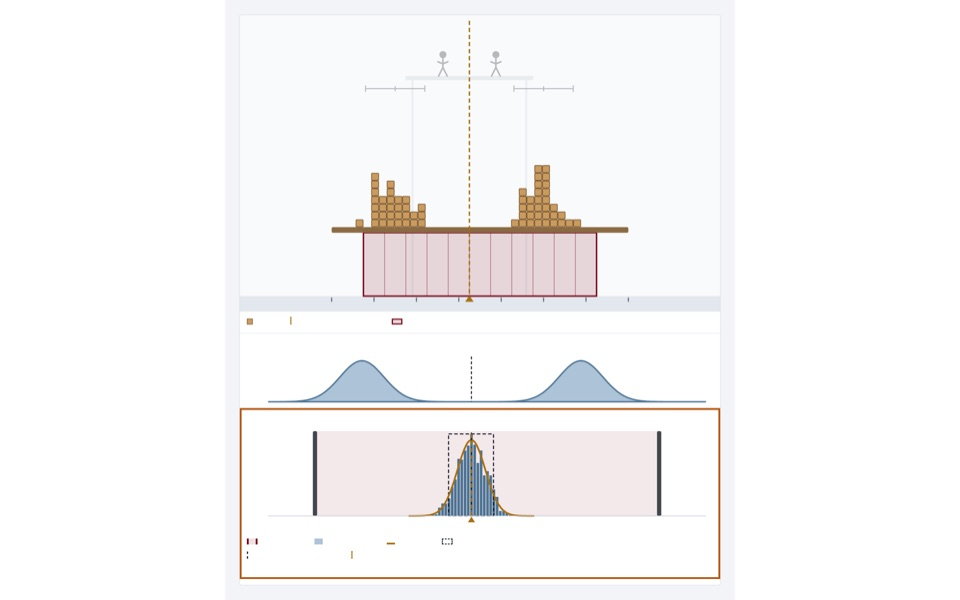
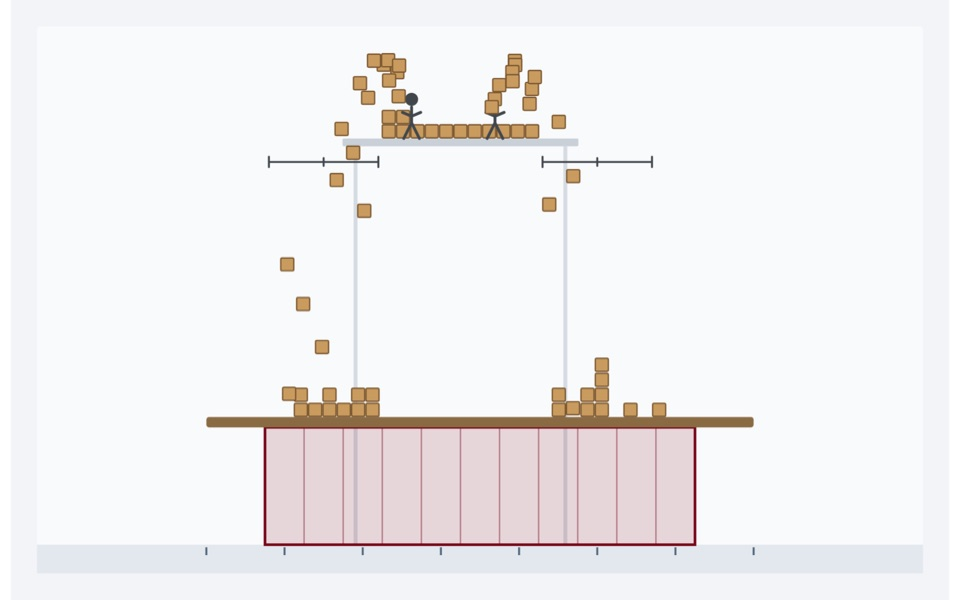
update thumbnails

diff --git a/site/index.html b/site/index.html
@@ -106,7 +106,7 @@ main{max-width:1240px;margin:0 auto;padding:28px 24px 56px}
         </span>
       </a></li>
       <li><a class="game" href="lookout-tower.html" style="--course:#047854" aria-labelledby="t-lookout-tower" aria-describedby="h-lookout-tower">
-        <span class="shot"><img src="thumbs/lookout-tower.jpg?v=99f8711b84" alt="A pixel marsh with three birds, each outlined, beside a tapering stack of floors over the photo with a pyramid of squares running from one top-floor lookout down to a bird." loading="lazy" width="960" height="600"><span class="num" aria-hidden="true">08</span></span>
+        <span class="shot"><img src="thumbs/lookout-tower.jpg?v=f69366f719" alt="A pixel marsh with three birds, each outlined, beside a tapering stack of floors over the photo with a pyramid of squares running from one top-floor lookout down to a bird." loading="lazy" width="960" height="600"><span class="num" aria-hidden="true">08</span></span>
         <span class="body">
           <span class="course"><i aria-hidden="true"></i>Deep Learning · Convolution and the receptive field</span>
           <h2 id="t-lookout-tower">Lookout Tower</h2>
@@ -115,7 +115,7 @@ main{max-width:1240px;margin:0 auto;padding:28px 24px 56px}
         </span>
       </a></li>
       <li><a class="game" href="mean-flights.html" style="--course:#4B7293" aria-labelledby="t-mean-flights" aria-describedby="h-mean-flights">
-        <span class="shot"><img src="thumbs/mean-flights.jpg?v=3edf1600ab" alt="Two workers on a platform above a long plank on a support, their crates landed in two heaps, above two charts on the same distance scale: single crates land in two separate humps, while the balance points of many drops pile into one narrow bell between them." loading="lazy" width="960" height="600"><span class="num" aria-hidden="true">09</span></span>
+        <span class="shot"><img src="thumbs/mean-flights.jpg?v=649f6c51a5" alt="Two workers on a platform toss crates to either side, mid-delivery: crates in the air, and two heaps building on a long plank that rests on a support." loading="lazy" width="960" height="600"><span class="num" aria-hidden="true">09</span></span>
         <span class="body">
           <span class="course"><i aria-hidden="true"></i>Probability+SDA · Central limit theorem</span>
           <h2 id="t-mean-flights">Tipping Point</h2>
@@ -124,7 +124,7 @@ main{max-width:1240px;margin:0 auto;padding:28px 24px 56px}
         </span>
       </a></li>
       <li><a class="game" href="photo-finish.html" style="--course:#173EAD" aria-labelledby="t-photo-finish" aria-describedby="h-photo-finish">
-        <span class="shot"><img src="thumbs/photo-finish.jpg?v=373180f2d3" alt="A contact sheet of concert photos ranked by score, with two gates, and an album below with five of six moments filled." loading="lazy" width="960" height="600"><span class="num" aria-hidden="true">10</span></span>
+        <span class="shot"><img src="thumbs/photo-finish.jpg?v=9874bb1dba" alt="A contact sheet of concert photos ranked by score, with two gates, and an album below with all six moments filled." loading="lazy" width="960" height="600"><span class="num" aria-hidden="true">10</span></span>
         <span class="body">
           <span class="course"><i aria-hidden="true"></i>Deep Learning · Class imbalance</span>
           <h2 id="t-photo-finish">Photo Finish</h2>
@@ -142,7 +142,7 @@ main{max-width:1240px;margin:0 auto;padding:28px 24px 56px}
         </span>
       </a></li>
       <li><a class="game" href="the-wonder-fold.html" style="--course:#4B7293" aria-labelledby="t-the-wonder-fold" aria-describedby="h-the-wonder-fold">
-        <span class="shot"><img src="thumbs/the-wonder-fold.jpg?v=632d715e8e" alt="Paper-plane landings in two indoor lanes, with each lane&#x27;s average marked." loading="lazy" width="960" height="600"><span class="num" aria-hidden="true">12</span></span>
+        <span class="shot"><img src="thumbs/the-wonder-fold.jpg?v=47dd96f0cf" alt="Paper planes in flight over two indoor lanes, on their way to land." loading="lazy" width="960" height="600"><span class="num" aria-hidden="true">12</span></span>
         <span class="body">
           <span class="course"><i aria-hidden="true"></i>Probability+SDA · Power of a test</span>
           <h2 id="t-the-wonder-fold">Wonder Fold</h2>

diff --git a/tools/live.py b/tools/live.py
@@ -1,0 +1,132 @@
+"""Live thumbnails: drive headless Chrome over the DevTools protocol, so a thumbnail can catch a game mid-animation.
+
+thumbs.py uses this for games with "thumb_live" in games.json. The game is first played into position with reduced
+motion on ("thumb_steps", instant), then motion is switched on, "thumb_live": {"steps": [...], "after": ms} is played
+in real time, and the play area is captured `after` ms later: planes in flight, crates in the air.
+Standard library only: a minimal WebSocket client for the one local DevTools connection.
+"""
+import base64
+import json
+import os
+import socket
+import struct
+import subprocess
+import tempfile
+import time
+import urllib.request
+
+
+class DevTools:
+    def __init__(self, chrome, width, height, scale):
+        self.port = 9300 + os.getpid() % 500
+        self.profile = tempfile.TemporaryDirectory()
+        self.proc = subprocess.Popen([chrome, '--headless=new', '--disable-gpu', '--hide-scrollbars',
+                                      f'--remote-debugging-port={self.port}', f'--user-data-dir={self.profile.name}',
+                                      f'--window-size={width},{height}', f'--force-device-scale-factor={scale}', 'about:blank'],
+                                     stdout=subprocess.DEVNULL, stderr=subprocess.DEVNULL)
+        for _ in range(80):
+            try:
+                pages = json.load(urllib.request.urlopen(f'http://127.0.0.1:{self.port}/json', timeout=1))
+                url = next(p['webSocketDebuggerUrl'] for p in pages if p['type'] == 'page')
+                break
+            except Exception:
+                time.sleep(.25)
+        else:
+            raise RuntimeError('Chrome DevTools did not start')
+        host, path = url[len('ws://'):].split('/', 1)
+        hostname, port = host.split(':')
+        self.sock = socket.create_connection((hostname, int(port)))
+        key = base64.b64encode(os.urandom(16)).decode()
+        self.sock.sendall((f'GET /{path} HTTP/1.1\r\nHost: {host}\r\nUpgrade: websocket\r\nConnection: Upgrade\r\n'
+                           f'Sec-WebSocket-Key: {key}\r\nSec-WebSocket-Version: 13\r\n\r\n').encode())
+        reply = b''
+        while b'\r\n\r\n' not in reply:
+            reply += self.sock.recv(4096)
+        assert b' 101 ' in reply.split(b'\r\n')[0], reply[:80]
+        self.buffer = reply.split(b'\r\n\r\n', 1)[1]
+        self.next_id = 0
+
+    def _read(self, n):
+        while len(self.buffer) < n:
+            chunk = self.sock.recv(1 << 16)
+            if not chunk:
+                raise ConnectionError('DevTools closed')
+            self.buffer += chunk
+        data, self.buffer = self.buffer[:n], self.buffer[n:]
+        return data
+
+    def _frame(self):
+        message = b''
+        while True:
+            b0, b1 = self._read(2)
+            length = b1 & 0x7F
+            if length == 126:
+                length = struct.unpack('>H', self._read(2))[0]
+            elif length == 127:
+                length = struct.unpack('>Q', self._read(8))[0]
+            message += self._read(length)
+            if b0 & 0x80:
+                return message.decode()
+
+    def send(self, method, **params):
+        self.next_id += 1
+        payload = json.dumps({'id': self.next_id, 'method': method, 'params': params}).encode()
+        mask = os.urandom(4)
+        n = len(payload)
+        header = bytes([0x81]) + (bytes([0x80 | n]) if n < 126 else bytes([0x80 | 126]) + struct.pack('>H', n) if n < 65536
+                                  else bytes([0x80 | 127]) + struct.pack('>Q', n))
+        self.sock.sendall(header + mask + bytes(b ^ mask[i % 4] for i, b in enumerate(payload)))
+        while True:
+            reply = json.loads(self._frame())
+            if reply.get('id') == self.next_id:
+                if 'error' in reply:
+                    raise RuntimeError(f'{method}: {reply["error"]}')
+                return reply.get('result', {})
+
+    def evaluate(self, expression):
+        result = self.send('Runtime.evaluate', expression=expression, awaitPromise=True, returnByValue=True)
+        return result.get('result', {}).get('value')
+
+    def reduce_motion(self, on):
+        self.send('Emulation.setEmulatedMedia', features=[{'name': 'prefers-reduced-motion', 'value': 'reduce' if on else 'no-preference'}])
+
+    def close(self):
+        try:
+            self.sock.close()
+        finally:
+            self.proc.kill()
+            self.proc.wait()
+            self.profile.cleanup()
+
+
+# Plays steps one after another, 400 ms apart: a selector to click (SVG elements too), {"set": selector, "value": v}
+# for a slider, or {"key": selector, "press": key, "times": n} for keyboard controls.
+STEPS_JS = '''(async steps=>{const wait=ms=>new Promise(r=>setTimeout(r,ms));
+for(const t of steps){if(typeof t==='string'){const e=document.querySelector(t);if(e&&e.click)e.click();else if(e)e.dispatchEvent(new MouseEvent('click',{bubbles:true}));}
+else if(t.key){const e=document.querySelector(t.key);for(let i=0;i<(t.times||1);i++)e&&e.dispatchEvent(new KeyboardEvent('keydown',{key:t.press,bubbles:true,cancelable:true}));}
+else{const e=document.querySelector(t.set);if(e){e.value=t.value;e.dispatchEvent(new Event('input',{bubbles:true}));e.dispatchEvent(new Event('change',{bubbles:true}));}}
+await wait(%d);}return true;})(%s)'''
+
+
+def capture(chrome, url, play, steps, live, out_png, box, size):
+    """Play the game into position, then live, and save a PNG of the play area (box() turns its rect into a clip)."""
+    width, height, scale = size
+    dev = DevTools(chrome, width, height, scale)
+    try:
+        dev.send('Page.enable')
+        dev.reduce_motion(True)
+        dev.send('Page.navigate', url=url)
+        time.sleep(1.5)
+        dev.evaluate(STEPS_JS % (400, json.dumps(steps)))
+        time.sleep(.8)
+        dev.reduce_motion(False)
+        dev.evaluate(STEPS_JS % (0, json.dumps(live.get('steps', []))))
+        time.sleep(live.get('after', 1000) / 1000)
+        rect = dev.evaluate(f'(()=>{{const r=document.querySelector({json.dumps(play)}).getBoundingClientRect();return [r.left+scrollX,r.top+scrollY,r.width,r.height];}})()')
+        x, y, w, h = box(*rect)
+        shot = dev.send('Page.captureScreenshot', format='png', captureBeyondViewport=True,
+                        clip={'x': x / scale, 'y': y / scale, 'width': w / scale, 'height': h / scale, 'scale': 1})
+        with open(out_png, 'wb') as f:
+            f.write(base64.b64decode(shot['data']))
+    finally:
+        dev.close()

diff --git a/tools/thumbs.py b/tools/thumbs.py
@@ -6,8 +6,10 @@ Each game opens headless at 1280 px with reduced motion. The play area named by
 centred, so every card shows its complete scene in the same framed, wide format. All text is hidden
 first, because course images carry no words or numbers; each card's alt text
 describes the scene instead. Optional "thumb_steps" in games.json plays the game
-into a more telling state first (buttons to press, sliders to set), and
-"thumb_query" opens a particular round (for example "seed=4").
+into a more telling state first (buttons to press, sliders to set, keys to press),
+and "thumb_query" opens a particular round (for example "seed=4"). With
+"thumb_live": {"steps": [...], "after": ms}, the game is then played on in real time
+and caught mid-animation (tools/live.py), for planes in flight or crates in the air.
 Run sync.py first, then this, then sync.py again.
 """
 from pathlib import Path
@@ -16,6 +18,9 @@ import re
 import subprocess
 import sys
 import tempfile
+
+sys.path.insert(0, str(Path(__file__).resolve().parent))
+import live  # noqa: E402
 
 HERE = Path(__file__).resolve().parents[1]
 SITE = HERE / 'site'
@@ -32,10 +37,11 @@ body *{{visibility:hidden!important}}{play},{play} *{{visibility:visible!importa
 </style>'''
 
 
-# Runs the optional "thumb_steps" (a selector to click, SVG elements included, or {"set": selector, "value": v} for a slider),
+# Runs the optional "thumb_steps" (a selector to click, SVG elements included, {"set": selector, "value": v} for a slider,
+# or {"key": selector, "press": key, "times": n} for keyboard controls),
 # 400 ms apart, then measures the play area once the result has settled.
 PROBE = '''<script>addEventListener('load',()=>{const steps=%s;let i=0;const next=()=>{if(i<steps.length){const t=steps[i++];
-if(typeof t==='string'){const e=document.querySelector(t);if(e&&e.click)e.click();else if(e)e.dispatchEvent(new MouseEvent('click',{bubbles:true}));}else{const e=document.querySelector(t.set);if(e){e.value=t.value;
+if(typeof t==='string'){const e=document.querySelector(t);if(e&&e.click)e.click();else if(e)e.dispatchEvent(new MouseEvent('click',{bubbles:true}));}else if(t.key){const e=document.querySelector(t.key);for(let i=0;i<(t.times||1);i++)e&&e.dispatchEvent(new KeyboardEvent('keydown',{key:t.press,bubbles:true,cancelable:true}));}else{const e=document.querySelector(t.set);if(e){e.value=t.value;
 e.dispatchEvent(new Event('input',{bubbles:true}));e.dispatchEvent(new Event('change',{bubbles:true}));}}setTimeout(next,400);return;}
 setTimeout(()=>{const e=document.querySelector(%s);const r=e.getBoundingClientRect();
 document.body.setAttribute('data-thumb',[r.left+scrollX,r.top+scrollY,r.width,r.height].map(Math.round).join(','));},2500);};setTimeout(next,800);});</script>'''
@@ -68,25 +74,35 @@ def main(only=()):
         for game in games:
             if only and game['slug'] not in only:
                 continue
-            page = (SITE / f'{game["slug"]}.html').read_text()
-            page = page.replace('</head>', hide(game['play']) + '</head>', 1).replace('</body>', PROBE % (json.dumps(game.get('thumb_steps', [])), json.dumps(game['play'])) + '</body>', 1)
+            page = (SITE / f'{game["slug"]}.html').read_text().replace('</head>', hide(game['play']) + '</head>', 1)
             probe = Path(tmp) / f'{game["slug"]}.html'
-            probe.write_text(page)
             url = probe.as_uri() + ('?' + game['thumb_query'] if game.get('thumb_query') else '')
+            shot = Path(tmp) / f'{game["slug"]}.png'
+            out = SITE / 'thumbs' / f'{game["slug"]}.jpg'
+            if game.get('thumb_live'):
+                probe.write_text(page)
+                live.capture(CHROME, url, game['play'], game.get('thumb_steps', []), game['thumb_live'], str(shot), box, (WIDTH, HEIGHT, SCALE))
+                w, h = map(int, subprocess.run(['sips', '-g', 'pixelWidth', '-g', 'pixelHeight', str(shot)], capture_output=True, text=True).stdout.split()[-3::2])
+                finish(shot, w, h, out)
+                continue
+            probe.write_text(page.replace('</body>', PROBE % (json.dumps(game.get('thumb_steps', [])), json.dumps(game['play'])) + '</body>', 1))
             dom = chrome('--dump-dom', url).stdout
             m = re.search(r'data-thumb="([\d,.-]+)"', dom)
             if not m:
                 print(f'{game["slug"]}: play area {game["play"]} not found; skipped', file=sys.stderr)
                 continue
             x, y, w, h = box(*map(float, m.group(1).split(',')))
-            shot = Path(tmp) / f'{game["slug"]}.png'
             chrome(f'--screenshot={shot}', url)
-            out = SITE / 'thumbs' / f'{game["slug"]}.jpg'
             subprocess.run(['sips', '-c', str(h), str(w), '--cropOffset', str(y), str(x), str(shot), '--out', str(shot)], check=True, capture_output=True)
-            ph, pw = padded(w, h)
-            subprocess.run(['sips', '--padToHeightWidth', str(ph), str(pw), '--padColor', 'FFFFFF', str(shot), '--out', str(shot)], check=True, capture_output=True)
-            subprocess.run(['sips', '--resampleWidth', str(OUT_WIDTH), '-s', 'format', 'jpeg', '-s', 'formatOptions', '82', str(shot), '--out', str(out)], check=True, capture_output=True)
-            print(f'thumbs/{out.name}  ({out.stat().st_size // 1024} KB)')
+            finish(shot, w, h, out)
+
+
+def finish(shot, w, h, out):
+    """Pad the cropped scene to 16:10 on white, centred, and save it as the card's JPEG."""
+    ph, pw = padded(w, h)
+    subprocess.run(['sips', '--padToHeightWidth', str(ph), str(pw), '--padColor', 'FFFFFF', str(shot), '--out', str(shot)], check=True, capture_output=True)
+    subprocess.run(['sips', '--resampleWidth', str(OUT_WIDTH), '-s', 'format', 'jpeg', '-s', 'formatOptions', '82', str(shot), '--out', str(out)], check=True, capture_output=True)
+    print(f'thumbs/{out.name}  ({out.stat().st_size // 1024} KB)')
 
 
 if __name__ == '__main__':

diff --git a/README.md b/README.md
@@ -53,4 +53,4 @@ cd ../../ai-arcade && python3 sync.py && python3 tools/thumbs.py && python3 sync
 git add -A && git commit -m "Update games" && git push
 ```
 
-A game marked `"hold": true` in `games.json` keeps its place in the order but stays off the site (none at the moment). To add a game, add an entry to `games.json` with its built file name and the CSS selector of its play area (used for the thumbnail), then run step 2. Optional fields shape the thumbnail (every scene is shown whole, padded to 16:10 on white): `thumb_steps` plays the game into a more telling state first (selectors to click, or `{"set": selector, "value": v}` for a slider), and `thumb_query` opens a particular round (for example `seed=4`).
+A game marked `"hold": true` in `games.json` keeps its place in the order but stays off the site (none at the moment). To add a game, add an entry to `games.json` with its built file name and the CSS selector of its play area (used for the thumbnail), then run step 2. Optional fields shape the thumbnail (every scene is shown whole, padded to 16:10 on white): `thumb_steps` plays the game into a more telling state first (selectors to click, `{"set": selector, "value": v}` for a slider, or `{"key": selector, "press": key, "times": n}` for keyboard controls), and `thumb_query` opens a particular round (for example `seed=4`). `thumb_live` (`{"steps": [...], "after": ms}`) then plays on in real time and catches the scene mid-animation, through Chrome's DevTools protocol (`tools/live.py`, standard library only): planes in flight in Wonder Fold, crates in the air in Tipping Point.
